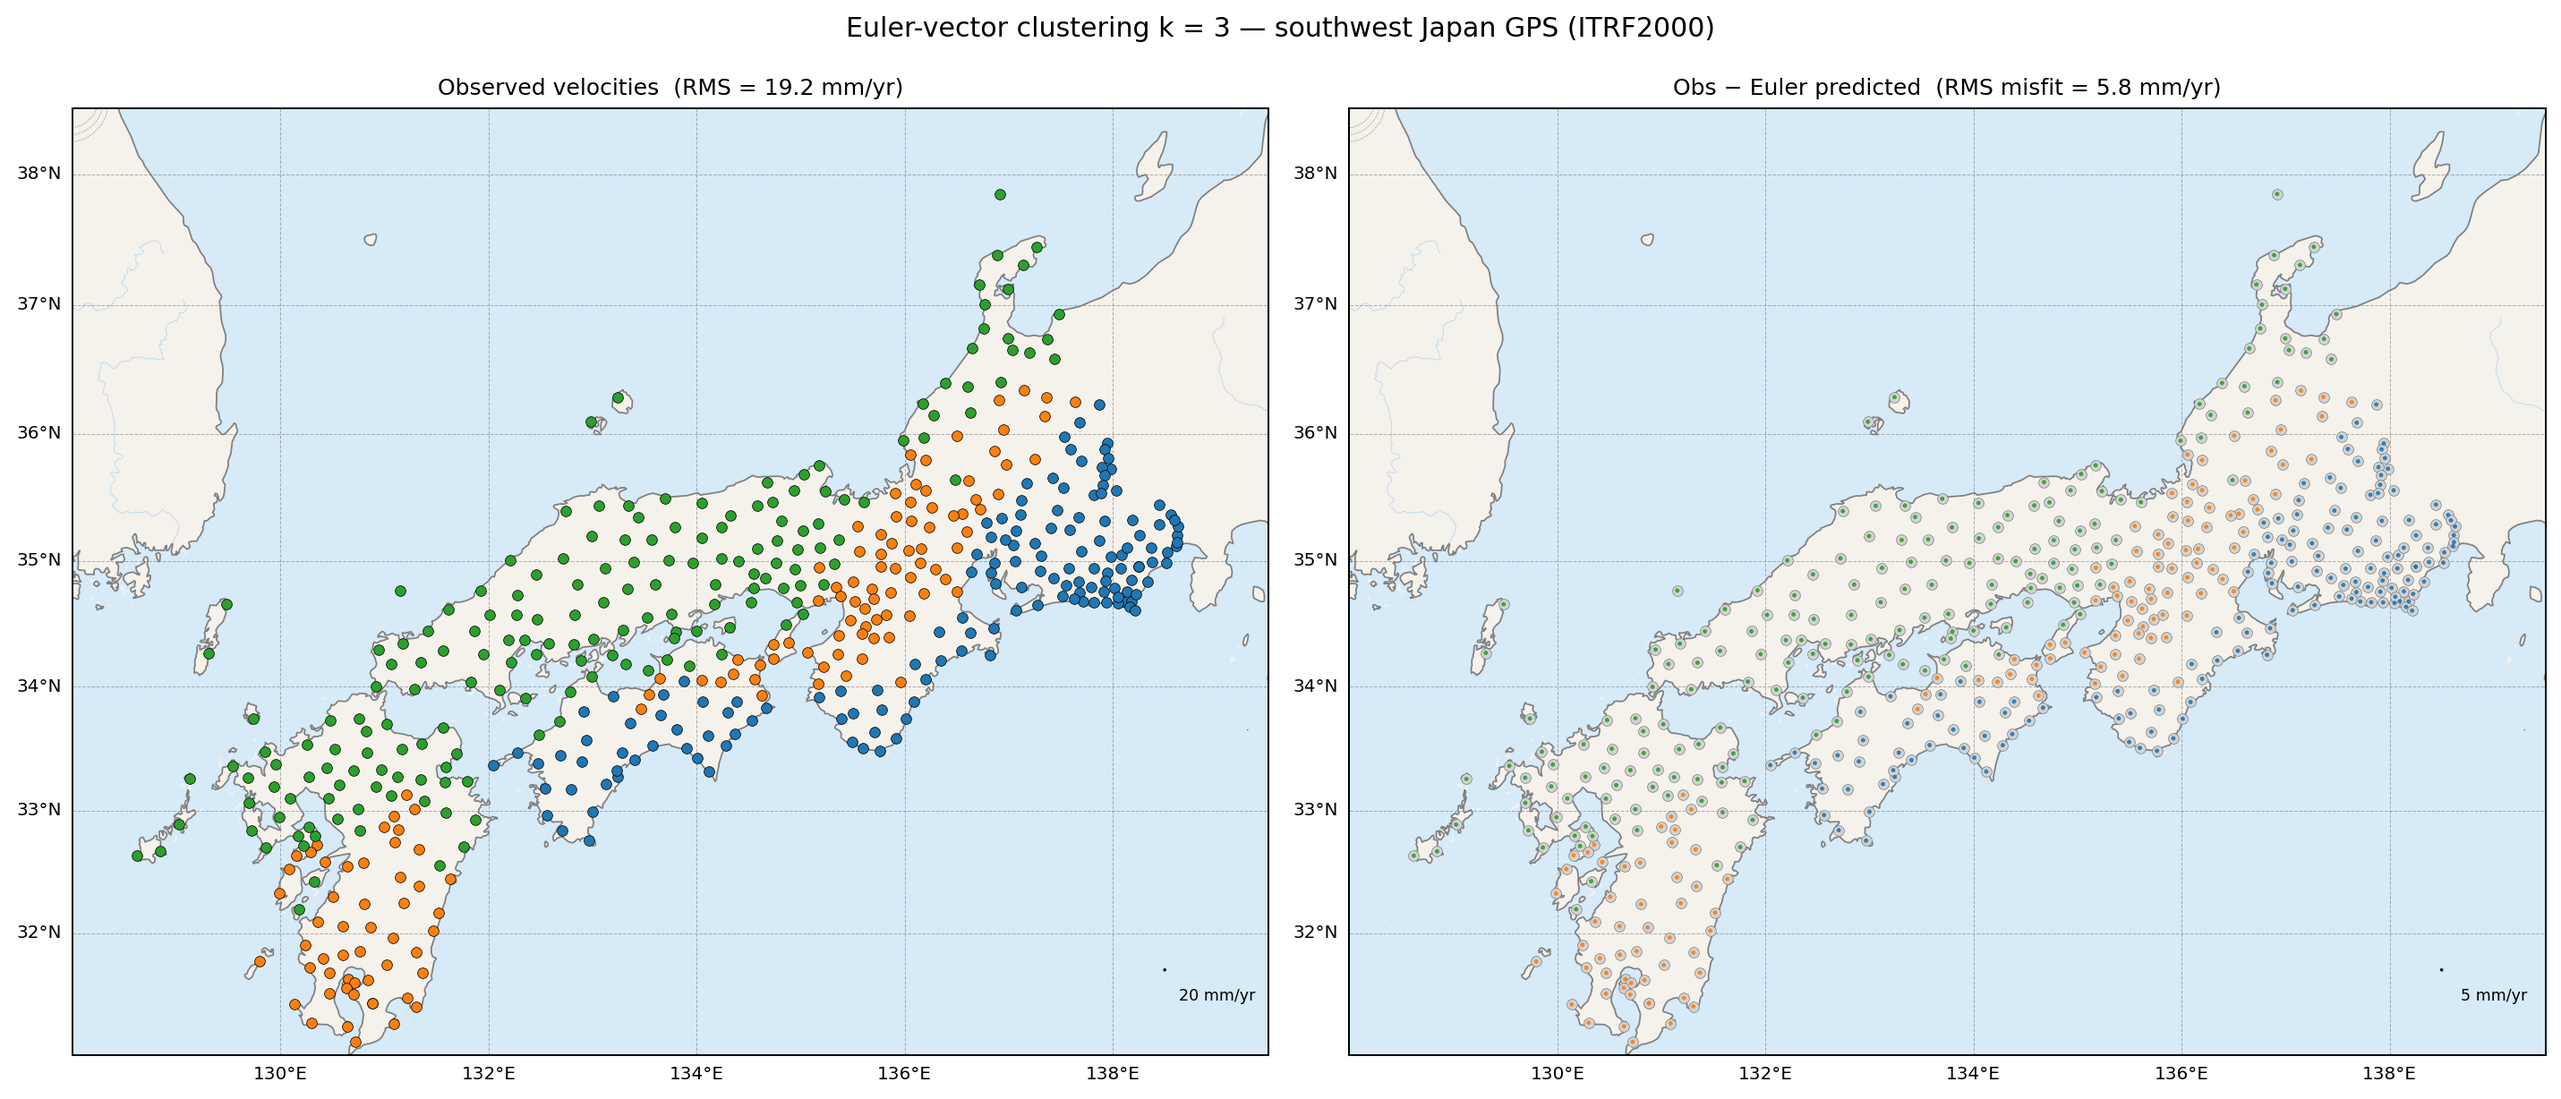
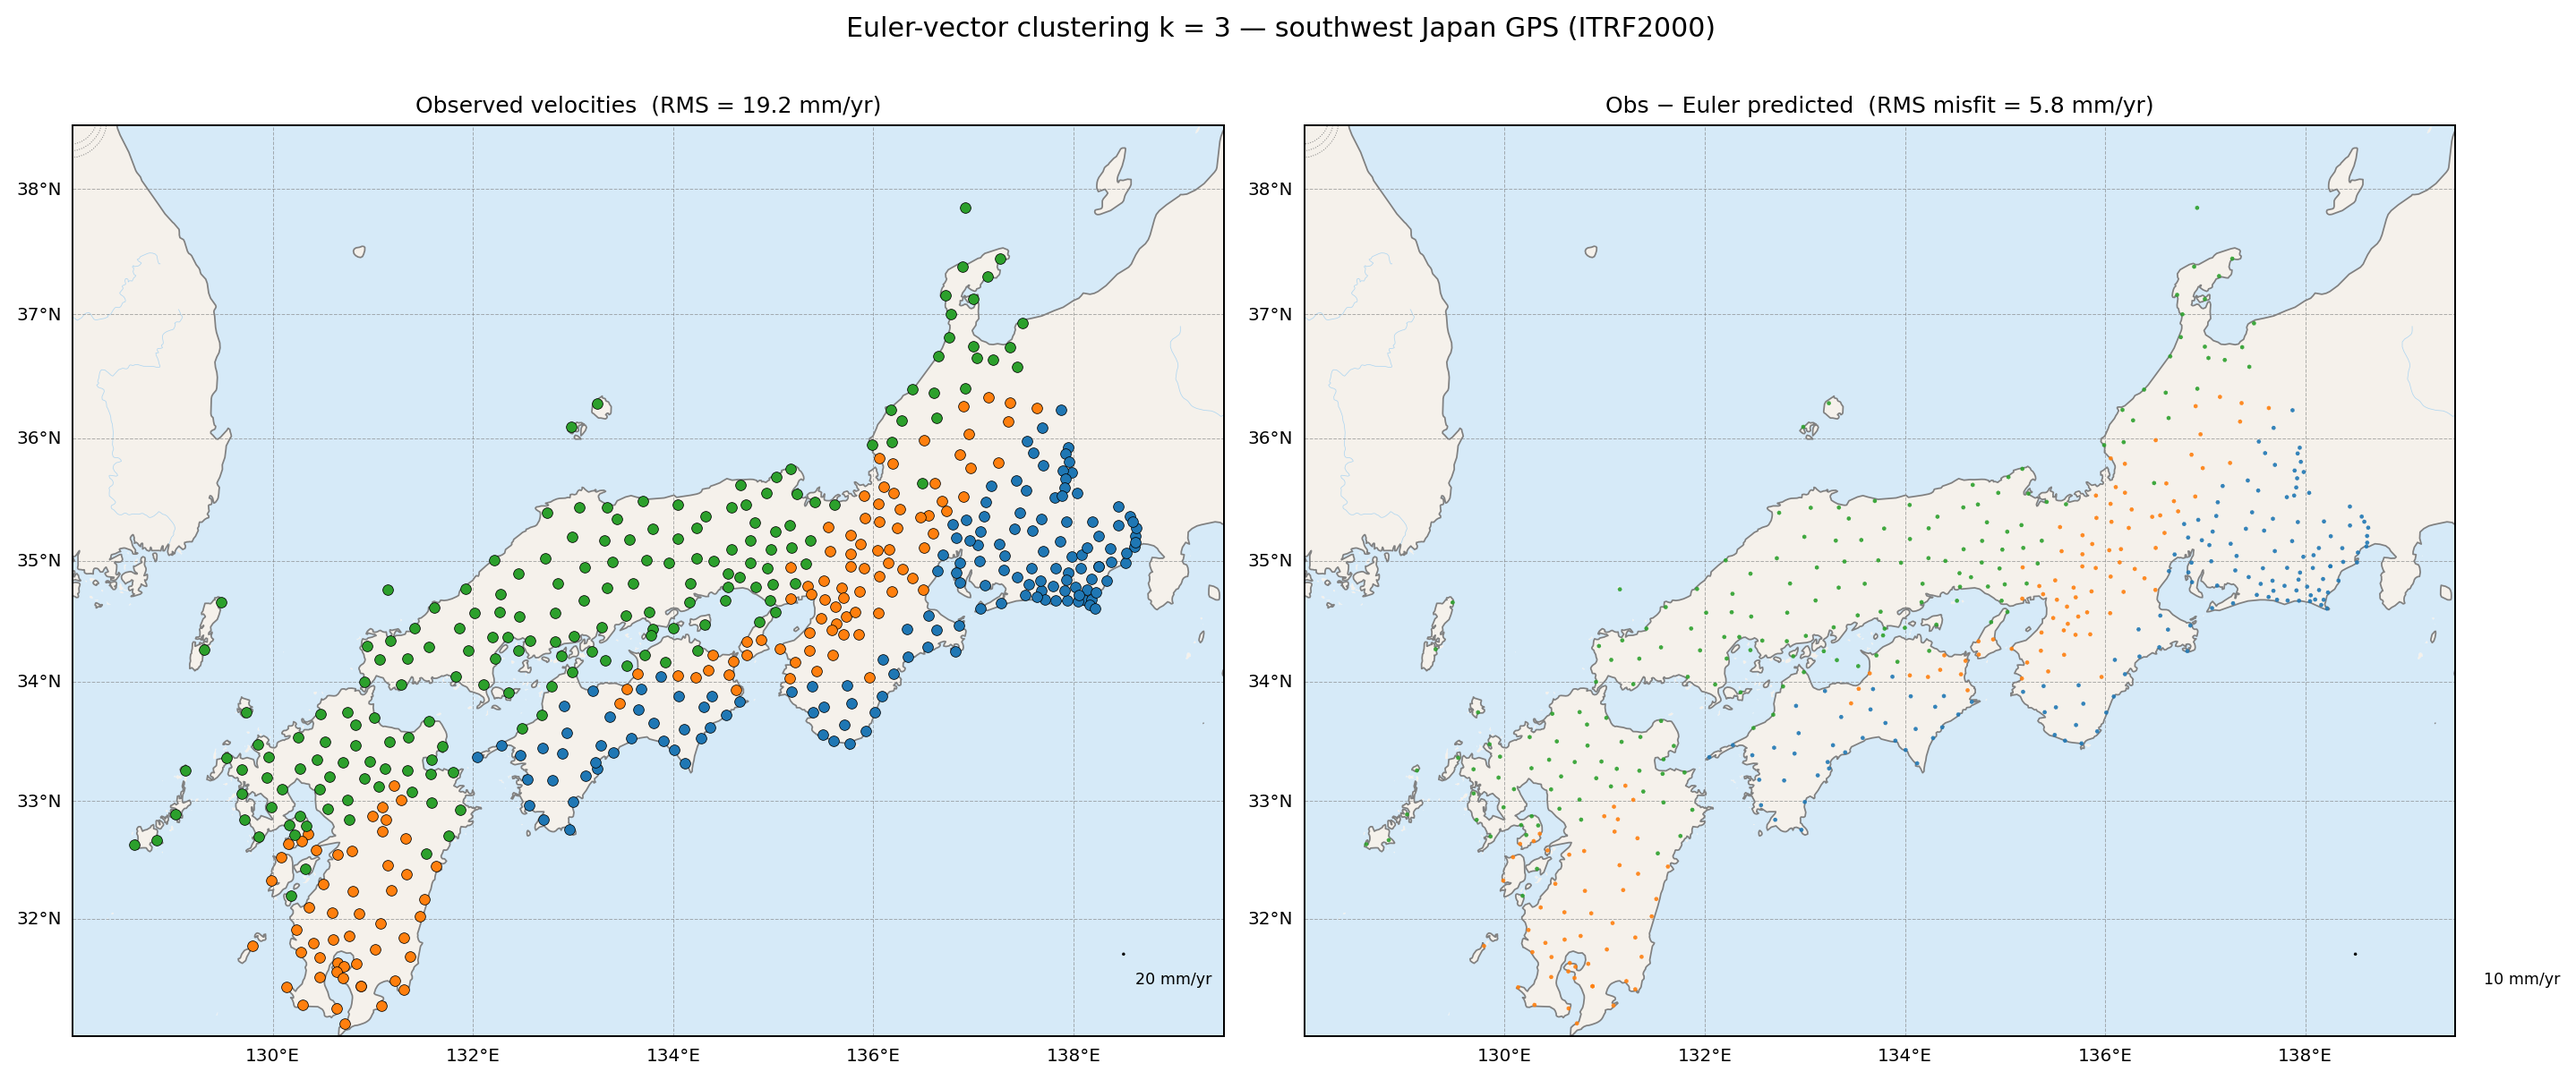
fix(fig6): remove station dots from misfit panel, enlarge residual arrows
- Drop scatter circles from right panel so only residual vectors show
- scale=5→3 (3 mm/yr = 1° on map) makes ~10 mm/yr residuals clearly visible
- Reference arrow updated to 10 mm/yr at the new scale

diff --git a/scripts/plot_japan_clusters.py b/scripts/plot_japan_clusters.py
@@ -355,14 +355,10 @@ for c in clusters3:
         dve.append(dve_i);            dvn.append(dvn_i)
         all_dve.append(dve_i);        all_dvn.append(dvn_i)
 
-    # Right panel: neutral grey dots so residual arrows are the focus
-    axes[1].scatter(np.array(lons), np.array(lats),
-                    s=22, color="lightgrey", edgecolor="grey",
-                    linewidths=0.3, transform=ccrs.PlateCarree(), zorder=3)
     axes[1].quiver(np.array(lons), np.array(lats),
                    np.array(dve), np.array(dvn),
                    transform=ccrs.PlateCarree(),
-                   scale=5, scale_units="xy",
+                   scale=3, scale_units="xy",
                    width=0.004, headwidth=5, headlength=6,
                    color=col, alpha=0.9, zorder=4)
 
@@ -371,7 +367,7 @@ rms_obs = np.sqrt(np.mean(
 rms_res = np.sqrt(np.mean(np.array(all_dve)**2 + np.array(all_dvn)**2))
 
 _ref_arrow(axes[0], length=20, scale=20)
-_ref_arrow(axes[1], length=5,  scale=5)
+_ref_arrow(axes[1], length=10, scale=3)
 
 axes[0].set_title(f"Observed velocities  (RMS = {rms_obs:.1f} mm/yr)", fontsize=10)
 axes[1].set_title(f"Obs − Euler predicted  (RMS misfit = {rms_res:.1f} mm/yr)", fontsize=10)
